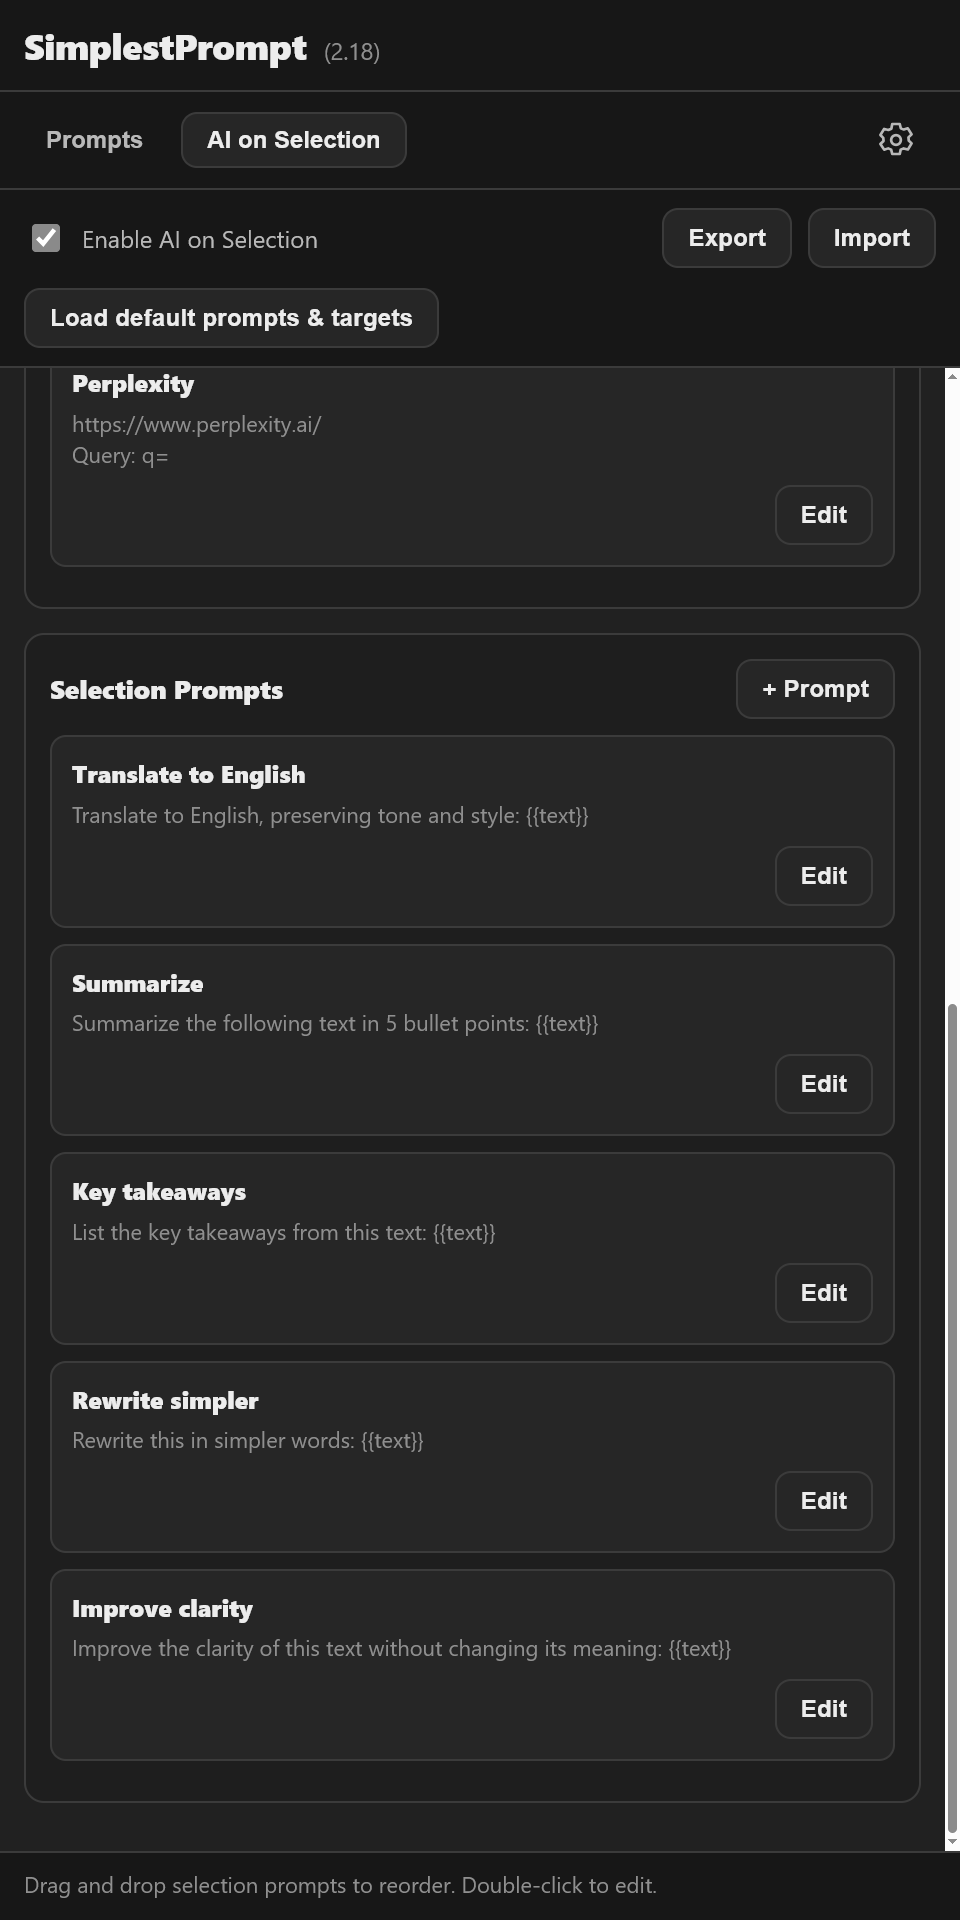
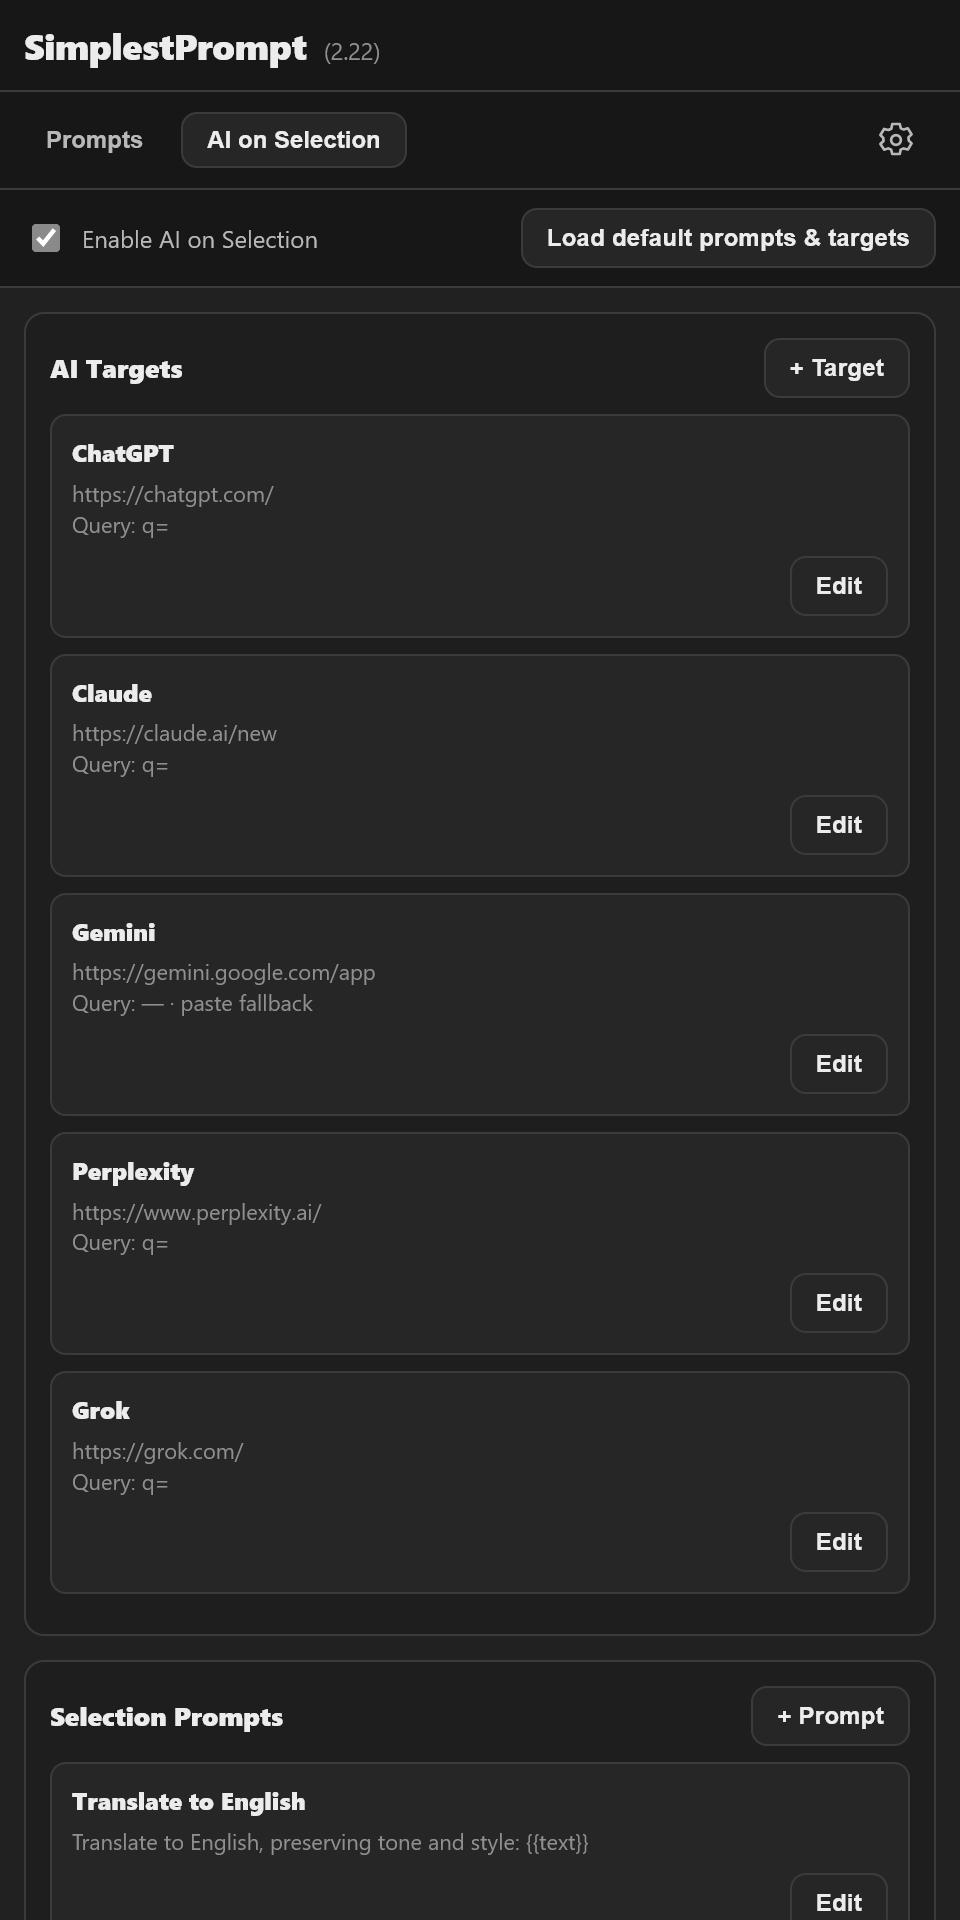
Screenshots: current 2.22 UI, two instead of five

diff --git a/README.md b/README.md
@@ -27,15 +27,8 @@ Good for quick translations, rewriting posts, summarizing articles, analyzing co
 ## Preview
 
 <p align="center">
-  <img src="assets/screenshot.png" width="380" alt="Prompts tab: folders and saved prompts with Copy buttons">
-  <img src="assets/screenshot-2.png" width="380" alt="AI on Selection tab: AI targets and selection prompts">
-</p>
-<p align="center">
-  <img src="assets/screenshot-3.png" width="380" alt="Right-click menu with your folders and prompts">
-  <img src="assets/screenshot-4.png" width="380" alt="Right-click menu: AI on Selection with prompts and AI targets">
-</p>
-<p align="center">
-  <img src="assets/screenshot-5.png?v=3" width="380" alt="Settings: language and automatic encrypted sync through a GitHub Gist">
+  <img src="assets/screenshot.png?v=4" width="380" alt="Prompts tab: folders and saved prompts with Copy buttons">
+  <img src="assets/screenshot-2.png?v=4" width="380" alt="AI on Selection tab: AI targets and selection prompts">
 </p>
 
 ## Contents
